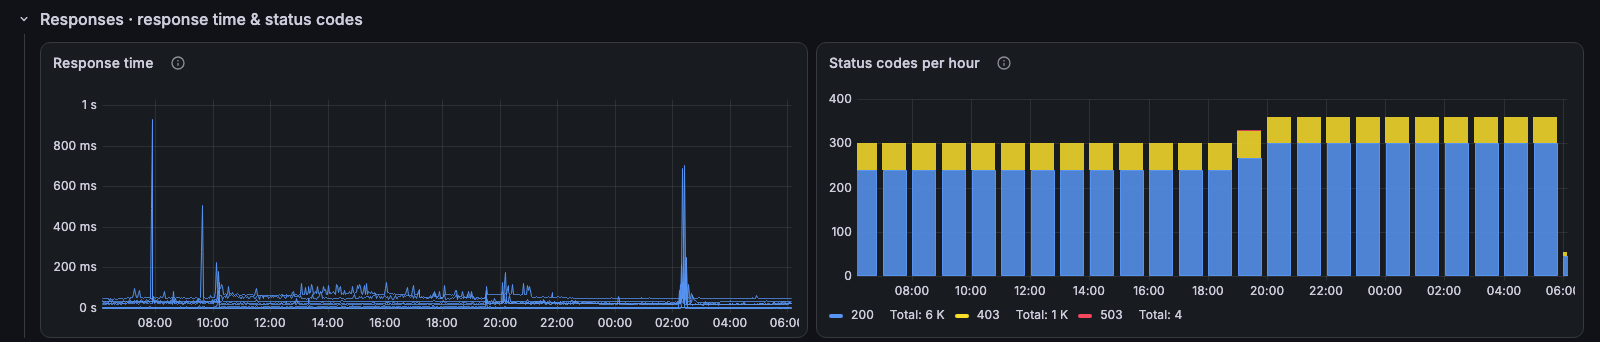
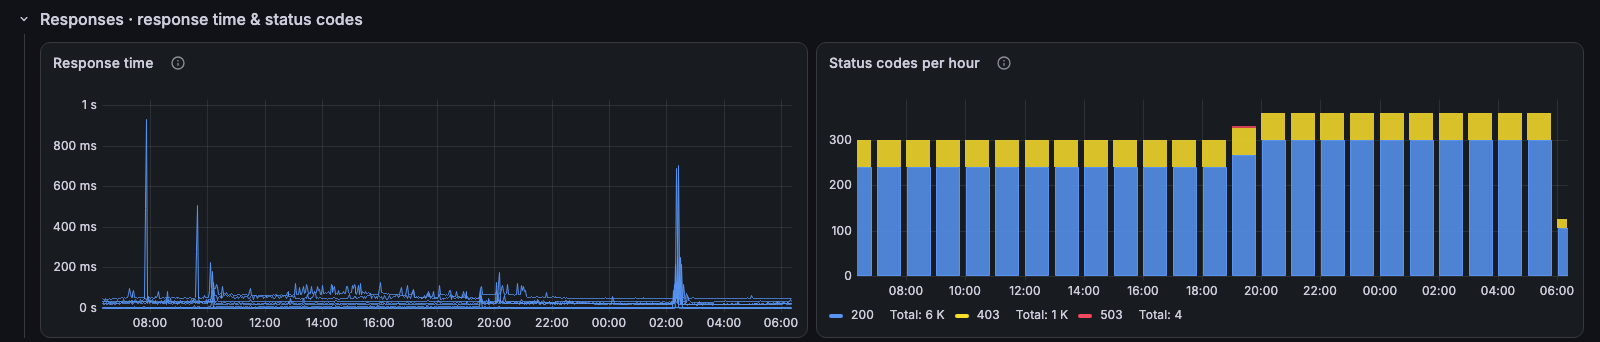
fix(gatus): count new counters only while Gatus was scraped
A series missing a minute earlier now counts from its value only when
Gatus was scraped then anyway (a new or re-registered counter) or had
just started. At the edge of retention every counter looked new, so long
ranges counted running totals: one minute held 282,394 passing checks.
A scrape gap over 5 minutes now loses its own checks instead of
inventing any.

Changed region(s): [[0.5, 0.3216, 1.0, 0.8772], [0.0625, 0.4971, 0.5, 0.9649], [0.5, 0.2632, 0.5312, 0.2924]]

diff --git a/gatus/AGENTS.md b/gatus/AGENTS.md
@@ -4,7 +4,7 @@ Adds to the root AGENTS.md. Verified metric traps (Gatus v5, 2026-10-06):
 
 - **Lazily created counters:** every `gatus_results_*` counter (both `success` values, `connected`, each `code`) appears already at 1, so `increase()` drops the first event.
 - **Config reloads re-register every metric:** series vanish and come back from 0 with the same labels, so `increase()` misses an event when a counter returns at its old value.
-- **Count per minute instead:** sum `x - x offset 1m >= 0 or x < x offset 1m or (x unless last_over_time(x[10m] offset 1m))` over `[$__range:1m]` for tiles and `[$__interval:1m] offset -$__interval` for hourly charts. A series with no sample in the prior 10 minutes counts from its value; one that returns within 10 minutes of a reload loses its first event. Tiles then equal the sum of the hourly charts, scrape gaps keep their increments, and counts are whole numbers.
+- **Count per minute instead:** per series, `x - x offset 1m >= 0 or x < x offset 1m or (x unless x offset 1m) and on (job, instance) (up offset 1m == 1 or time() - process_start_time_seconds < 900)`, summed over `[$__range:1m]` for tiles and `[$__interval:1m] offset -$__interval` for hourly charts. A series missing a minute earlier counts from its value only if Gatus was scraped then anyway (a new or re-registered counter) or had just started. After a scrape gap over 5 minutes or at the edge of retention it doesn't, so running totals never count as events; the gap's own checks are lost instead. Tiles equal the sum of the hourly charts, and counts are whole numbers.
 - External (push) endpoints have `type="UNKNOWN"` and no `results_connected_total`; their duration is 0 unless the pusher sends `duration`. Response time and unreachable counts exclude them.
 - `results_connected_total` only counts results that connected; unreachable checks are `results_total - results_connected_total`. An HTTP check that gets a response also records its status code, so `results_code_total` cross-checks the split.
 - `results_duration_seconds`, `certificate_expiration_seconds` and `endpoint_success` are gauges of the latest check only.
